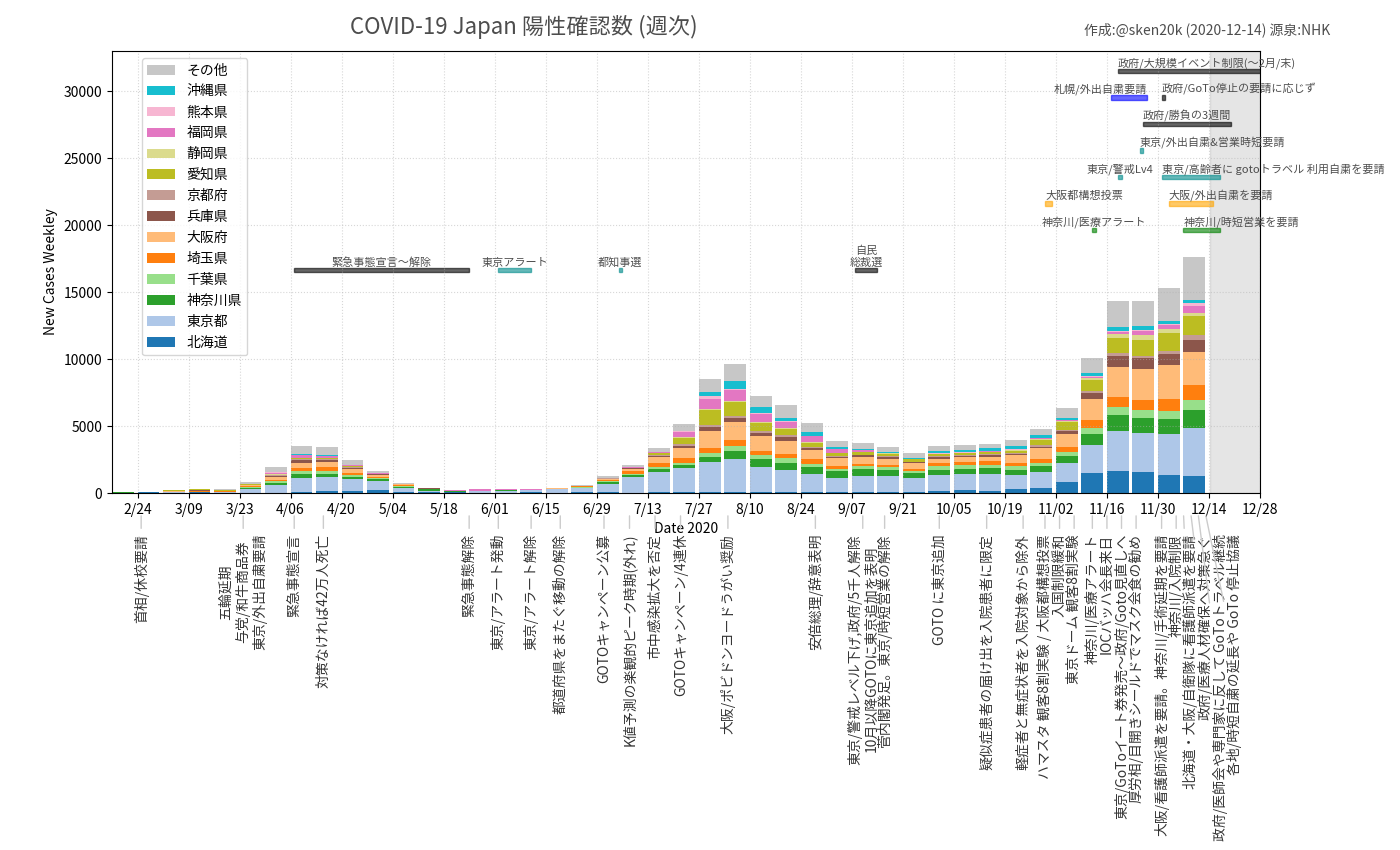
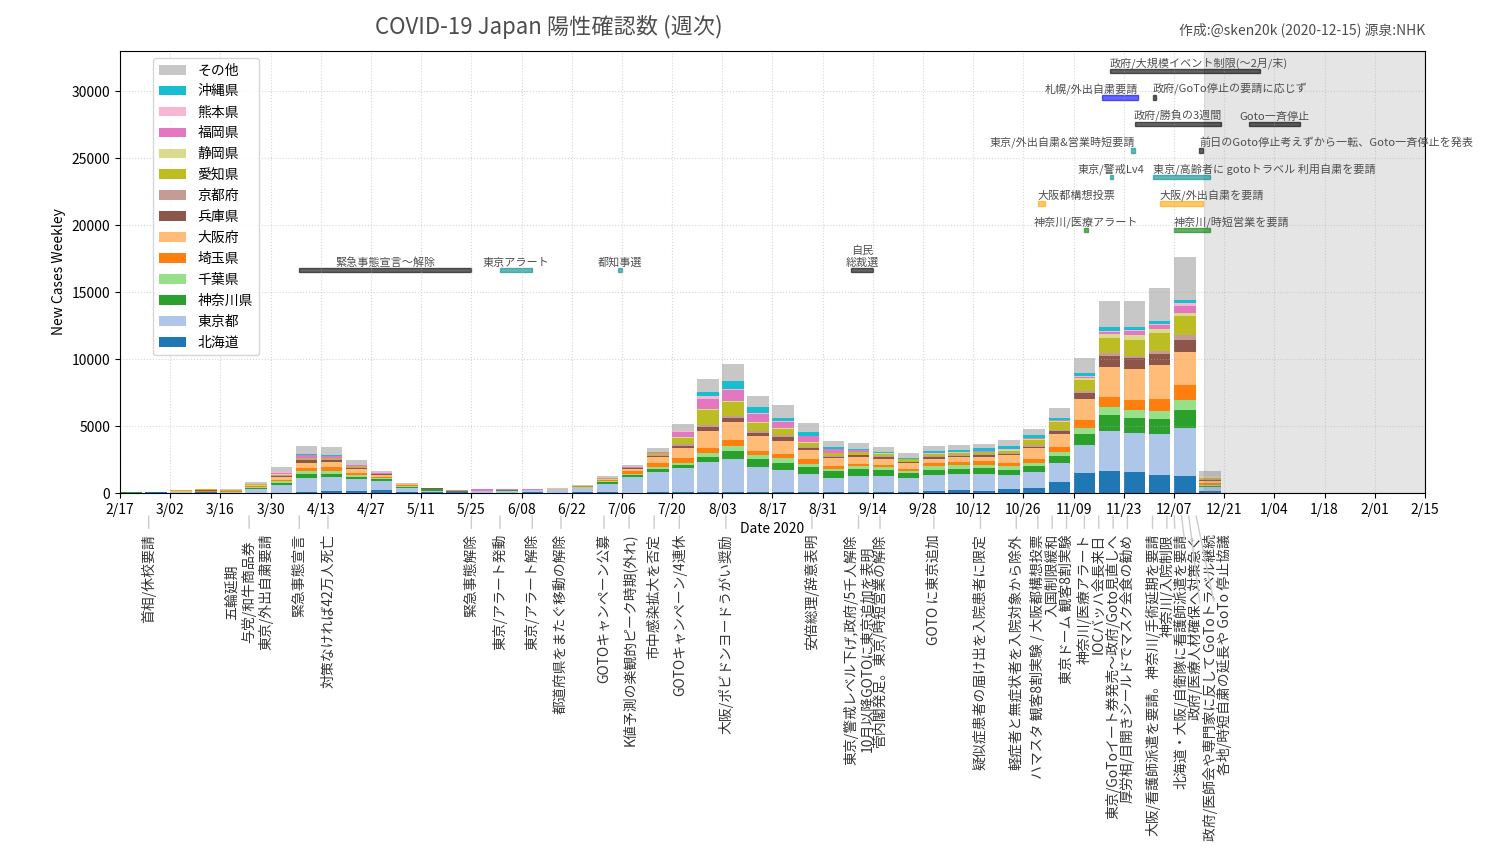
update image of calendar

diff --git a/cov19calendar.html b/cov19calendar.html
@@ -98,11 +98,11 @@
 <h1>各都道府県のトレンド(月曜更新)<a class="headerlink" href="#id2" title="Permalink to this headline">¶</a></h1>
 <div class="section" id="vs">
 <h2>週の陽性確認数(10万人あたり) vs 今週先週比<a class="headerlink" href="#vs" title="Permalink to this headline">¶</a></h2>
-<a class="reference internal image-reference" href="_images/c19n_nr.png"><img alt="_images/c19n_nr.png" class="align-center" src="_images/c19n_nr.png" style="width: 360.0px; height: 320.0px;" /></a>
+<a class="reference internal image-reference" href="_images/c19n_nkx.png"><img alt="_images/c19n_nkx.png" class="align-center" src="_images/c19n_nkx.png" style="width: 360.0px; height: 320.0px;" /></a>
 </div>
 <div class="section" id="id3">
 <h2>都道府県の積み上げ(週次) + 出来事を記入<a class="headerlink" href="#id3" title="Permalink to this headline">¶</a></h2>
-<a class="reference internal image-reference" href="_images/c19n_s.png"><img alt="_images/c19n_s.png" class="align-center" src="_images/c19n_s.png" style="width: 560.0px; height: 340.0px;" /></a>
+<a class="reference internal image-reference" href="_images/c19n_s.png"><img alt="_images/c19n_s.png" class="align-center" src="_images/c19n_s.png" style="width: 600.0px; height: 340.0px;" /></a>
 </div>
 <div class="section" id="id4">
 <h2>都道府県毎(週次)<a class="headerlink" href="#id4" title="Permalink to this headline">¶</a></h2>
